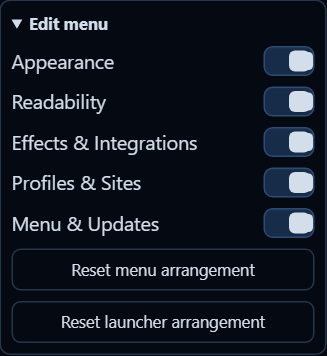
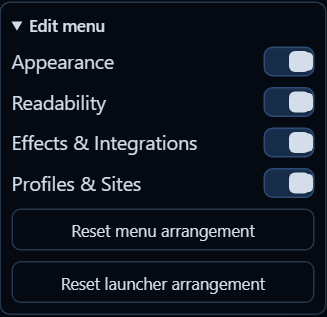
Prepare exp-core 3.3.9 with current guides and menu controls

diff --git a/dist/exp-core.js b/dist/exp-core.js
@@ -1483,19 +1483,21 @@ function createProductLifecycle(shared) {
   });
 }
 
-// Shared, local-only recovery and compatibility controls.
+// Shared, local-only compatibility controls.
 const ExtraPotionsTools = (() => {
-  const clone = value => JSON.parse(JSON.stringify(value));
-  function createSettingsRecovery({read,write,validate,limit=5}) {
-    function list() { try { const values=read(); return Array.isArray(values)?values.filter(v=>v&&typeof v.id==='string'&&v.settings&&typeof v.settings==='object').slice(0,limit).map(clone):[]; } catch {return [];} }
-    function capture(settings,reason='change') {
-      const clean=validate(clone(settings)); const entries=list();
-      if(entries[0]&&JSON.stringify(entries[0].settings)===JSON.stringify(clean))return entries[0].id;
-      const entry={id:globalThis.crypto?.randomUUID?.()||`${Date.now()}-${Math.random()}`,at:Date.now(),reason:String(reason).slice(0,80),settings:clean};
-      write([entry,...entries].slice(0,limit));return entry.id;
-    }
-    function restore(id){const entry=list().find(v=>v.id===id);if(!entry)throw Error('This backup is no longer available.');return validate(clone(entry.settings));}
-    return Object.freeze({list,capture,restore});
+  function placeDonationPanel(panel, trigger){
+    trigger.closest('.menu-head,.ward-header,header')?.after(panel);
+    panel.style.cssText='position:static!important;width:100%!important;max-width:100%!important;margin:7px 0;box-shadow:none';
+  }
+  function createBitcoinDonation(){
+    const address='bc1qg4xq63mwu63qc5dnqugk3qtxvulv5p3frjayna8ey8tu8ey4wpxsg92hv3';
+    const details=document.createElement('details');details.className='exp-bitcoin-donation';details.style.cssText='margin-top:7px;min-width:0';
+    const summary=document.createElement('summary');summary.textContent='₿ Bitcoin';summary.style.cssText='cursor:pointer;font-weight:700;padding:6px;border:1px solid var(--theme-line);border-radius:7px';
+    const code=document.createElement('code');code.textContent=address;code.setAttribute('aria-label','Bitcoin donation address');code.style.cssText='display:block;overflow-wrap:anywhere;word-break:break-all;user-select:all;margin:7px 0;font-size:11px;line-height:1.4';
+    const status=document.createElement('p');status.setAttribute('role','status');status.style.cssText='margin:5px 0 0;font-size:10px';
+    const copy=button('Copy Bitcoin address',async()=>{try{await navigator.clipboard.writeText(address);status.textContent='Bitcoin address copied.';}catch{status.textContent='Select and copy the address above.';}});copy.style.cssText='width:100%;min-width:0;white-space:normal;border-radius:7px';
+    const wallet=document.createElement('a');wallet.href='bitcoin:'+address;wallet.textContent='Open Bitcoin wallet';
+    details.append(summary,code,copy,wallet,status);return details;
   }
   function compatibilitySnapshot(){
     const rows=[];const warnings=[];const versions=new Set();
@@ -1514,8 +1516,7 @@ const ExtraPotionsTools = (() => {
   const button=(label,fn)=>{const b=document.createElement('button');b.type='button';b.className='life-btn action';b.textContent=label;b.addEventListener('click',fn);return b;};
   function card(title){const d=document.createElement('details');d.className='exp-tools-card';d.style.cssText='border:1px solid var(--theme-line,var(--line,#777));border-radius:7px;padding:7px;margin-top:8px';const s=document.createElement('summary');s.textContent=title;d.append(s);return d;}
   function createCompatibilityControls(){const d=card('Product compatibility'),out=document.createElement('div');out.setAttribute('aria-live','polite');function refresh(){out.replaceChildren();const value=compatibilitySnapshot();for(const p of value.products){const line=document.createElement('p');line.textContent=`${p.id.toUpperCase()} ${p.versions.join(', ')} · ${p.core?'core '+p.core:'native product UI'}`;out.append(line);}const status=document.createElement('p');status.textContent=value.warnings.join(' ')||'No mixed core versions or duplicate instances detected on this page.';out.append(status);const note=document.createElement('small');note.textContent='Only products running on this page are visible. This is not an online update check.';out.append(note);}d.addEventListener('toggle',()=>{if(d.open)refresh();});d.append(out,button('Refresh compatibility',refresh));return d;}
-  function createRecoveryControls({list,capture,restore,notify=()=>{}}){const d=card('Settings backups'),select=document.createElement('select'),status=document.createElement('p');select.setAttribute('aria-label','Settings backup');status.setAttribute('role','status');function refresh(){select.replaceChildren();for(const e of list()){const o=document.createElement('option');o.value=e.id;o.textContent=`${new Date(e.at).toLocaleString()} · ${e.reason}`;select.append(o);}select.disabled=!select.options.length;rollback.disabled=select.disabled;}const backup=button('Back up settings',()=>{try{capture();refresh();status.textContent='Settings backed up locally.';}catch(e){status.textContent=e.message;}});const rollback=button('Restore selected backup',()=>{try{if(!select.value)return;restore(select.value);refresh();status.textContent='Settings restored. The previous state was also backed up.';notify(status.textContent);}catch(e){status.textContent=e.message;}});d.addEventListener('toggle',()=>{if(d.open)refresh();});d.append(select,backup,rollback,status);refresh();return d;}
-  return Object.freeze({createSettingsRecovery,compatibilitySnapshot,createCompatibilityControls,createRecoveryControls});
+  return Object.freeze({placeDonationPanel,createBitcoinDonation,compatibilitySnapshot,createCompatibilityControls});
 })();
 
 // Section arrangement shared at build time by ExtraPotions menus.
@@ -1570,7 +1571,7 @@ const ExpMenuArrangement = (() => {
       });
       onChange();
     }
-    function update() { if (!recovery.body.contains(editor)) recovery.body.append(editor); }
+    function update() { const target = recovery.body.querySelector('[data-exp-system-tools]') || recovery.body; if (editor.parentElement !== target) target.append(editor); }
     for (const entry of entries) {
       entry.section.dataset.expArrangeSection = entry.key;
       const grip = document.createElement('button'); grip.type = 'button'; grip.className = 'exp-section-grip'; grip.textContent = '⠿';
@@ -1631,7 +1632,7 @@ const ExpMenuArrangement = (() => {
 // Product engines own their settings, content, and actions. Core owns shared UI.
 const ExtraPotionsCore = (() => {
   'use strict';
-  const version = '3.3.8';
+  const version = '3.3.9';
   const sourceVersion = '3.3.5';
   const SUPPORT_URL = 'https://ko-fi.com/expdare';
   const protocol = 'exp-core-coordination-v1';
@@ -1651,6 +1652,21 @@ const ExtraPotionsCore = (() => {
   function applyTextGradient(element, backgroundImage) {
     const properties = {'background-color':'transparent','background-image':backgroundImage,'background-clip':'text','-webkit-background-clip':'text','background-size':'auto','background-position':'0% 0%','background-repeat':'repeat'};
     for (const [property,value] of Object.entries(properties)) element.style.setProperty(property,value,'important');
+  }
+  function replaceMenuContent(container, content) {
+    const summary = node => node.querySelector(':scope > summary')?.textContent.trim();
+    const expanded = new Set([...container.querySelectorAll('details[open]')].map(summary));
+    container.replaceChildren(content);
+    for (const node of container.querySelectorAll('details')) if (expanded.has(summary(node))) node.open = true;
+  }
+  function createDisclosure(label, ...contents) {
+    const details = document.createElement('details'); details.className = 'exp-system-card';
+    const summary = document.createElement('summary'); summary.textContent = label;
+    details.append(summary, ...contents); return details;
+  }
+  function createSystemGrid(...contents) {
+    const grid = document.createElement('div'); grid.dataset.expSystemTools = '1';
+    grid.append(...contents); return grid;
   }
   function menuWidthForMode(mode = 'compact', fullWidth = 312) {
     if (mode === 'narrow') return 220;
@@ -1673,6 +1689,14 @@ const ExtraPotionsCore = (() => {
     [data-exp-part="dock"] :is(input,select,textarea){min-width:0;max-width:100%}
     .update-notice,.changelog{max-height:calc(100vh - 24px)!important;overflow-x:hidden!important;overflow-y:auto!important;overscroll-behavior:contain;overflow-wrap:anywhere}
 
+    [data-exp-system-tools]{display:grid!important;grid-template-columns:repeat(2,minmax(0,1fr))!important;gap:6px!important;align-items:stretch;grid-column:1/-1!important;min-width:0}
+    [data-exp-system-tools]>details{box-sizing:border-box;min-width:0;margin:0!important;padding:7px!important;border:1px solid var(--theme-line);border-radius:7px;grid-column:auto!important;overflow-wrap:anywhere}
+    [data-exp-system-tools]>details[open]{grid-column:1/-1!important}
+    [data-exp-system-tools]>details>summary{cursor:pointer;font-weight:600}
+    .exp-system-card>summary{cursor:pointer}
+    .exp-system-card>summary+*{margin-top:6px}
+    [data-exp-part="dock"] .row:has(>select[aria-label="Menu width"]){display:grid!important;grid-template-columns:minmax(0,1fr) minmax(0,104px)!important;align-items:center;gap:8px!important}
+    [data-exp-part="dock"] .row>select[aria-label="Menu width"]{box-sizing:border-box;width:100%!important;max-width:104px!important;min-width:0!important;margin:0!important}
     :host{color-scheme:dark}
     [data-exp-part="launcher"]{box-sizing:border-box!important;width:48px!important;min-width:48px!important;max-width:48px!important;height:48px!important;min-height:48px!important;max-height:48px!important}
     [data-exp-part="launcher"] .launcher-icon{width:40px!important;height:40px!important}
@@ -2459,15 +2483,16 @@ const ExtraPotionsCore = (() => {
     anchor.target = '_blank';
     anchor.rel = 'noopener noreferrer';
     anchor.textContent = 'Open Ko-fi';
-    popover.append(strong, copy, anchor);
+    popover.append(strong, copy, anchor, ExtraPotionsTools.createBitcoinDonation());
     wrapper.append(button, popover);
     const toggle = event => {
       event?.stopPropagation?.();
+      ExtraPotionsTools.placeDonationPanel(popover,button);
       popover.hidden = !popover.hidden;
       button.setAttribute('aria-expanded', String(!popover.hidden));
     };
     const outside = event => {
-      if (popover.hidden || event.composedPath().includes(wrapper)) return;
+      if (popover.hidden || event.composedPath().includes(wrapper) || event.composedPath().includes(popover)) return;
       popover.hidden = true;
       button.setAttribute('aria-expanded', 'false');
     };
@@ -2478,7 +2503,7 @@ const ExtraPotionsCore = (() => {
       button,
       popover,
       hide() { popover.hidden = true; button.setAttribute('aria-expanded', 'false'); },
-      destroy() { button.removeEventListener('click', toggle); document.removeEventListener('pointerdown', outside, true); wrapper.remove(); },
+      destroy() { button.removeEventListener('click', toggle); document.removeEventListener('pointerdown', outside, true); popover.remove(); wrapper.remove(); },
     });
   }
 
@@ -2566,7 +2591,7 @@ const ExtraPotionsCore = (() => {
     const header=document.createElement('header');header.className='menu-head';const brand=document.createElement('div');brand.className='header-brand';const image=document.createElement('img');image.src=artwork;image.alt='';const copy=document.createElement('div');const titleRow=document.createElement('div');const title=document.createElement('strong');title.textContent=name;const v=document.createElement('button');v.type='button';v.className='version';v.textContent='v'+productVersion;titleRow.append(title,v);const sub=document.createElement('small');sub.textContent=subtitle;copy.append(titleRow,sub);brand.append(image,copy);const close=document.createElement('button');close.className='close';close.textContent='×';close.setAttribute('aria-label','Close '+name);const actions=document.createElement('div');actions.className='header-actions';const support=createSupportControl({url:supportUrl,label:'Support '+name});if(support)actions.append(support.element);actions.append(close);header.append(brand,actions);const divider=document.createElement('div');divider.className='header-divider';const nav=document.createElement('nav');
     let isOpen=false, activeId='';let chrome;
     const sectionMap=new Map();
-    function renderSection(section,body){const content=section.render({core:api,onSettings});body.replaceChildren(content);chrome?.update();}
+    function renderSection(section,body){const content=section.render({core:api,onSettings});replaceMenuContent(body,content);chrome?.update();}
     function renderActive(){if(!activeId)return false;const entry=sectionMap.get(activeId);if(!entry||entry.body.hidden)return false;renderSection(entry.section,entry.body);return true;}
     function setOpen(value,focus=true){isOpen=Boolean(value);panel.hidden=!isOpen;launcher.setAttribute('aria-expanded',String(isOpen));if(isOpen){activeId='';nav.querySelectorAll('.route-body').forEach(n=>n.hidden=true);nav.querySelectorAll('button[data-section]').forEach(n=>n.setAttribute('aria-expanded','false'));}chrome.state(isOpen);if(focus)(isOpen?focusMenuSurface(panel):launcher.focus());}
     for(const section of sections){const group=document.createElement('section');group.className='tool-panel';const button=document.createElement('button');button.type='button';button.textContent=section.label;button.dataset.section=section.id;const body=document.createElement('div');body.className='route-body';body.hidden=true;sectionMap.set(section.id,{section,body,button});button.addEventListener('click',()=>{const opening=body.hidden;nav.querySelectorAll('.route-body').forEach(n=>n.hidden=true);nav.querySelectorAll('button[data-section]').forEach(n=>{n.classList.toggle('last-opened',n===button);n.setAttribute('aria-expanded',String(opening&&n===button));});body.hidden=!opening;activeId=opening?section.id:'';if(opening)renderSection(section,body);chrome.update();});group.append(button,body);nav.append(group);}
@@ -2581,6 +2606,6 @@ const ExtraPotionsCore = (() => {
   if(document.documentElement)startGrid();else addEventListener('DOMContentLoaded',startGrid,{once:true});
   document.addEventListener('exp-core:coordination',scheduleGrid);
   addEventListener('resize',scheduleGrid,{passive:true});
-  const api = Object.freeze({...ExtraPotionsTools,version,sourceVersion,protocol,gridProtocol,reference:DropperReference,css:canonicalCss,themes,create,createProduct,createSupportControl,createProductNotice,createLifecycle:()=>createProductLifecycle(api),registerLauncher,layout:layoutGrid,menuWidthForMode,cloneSettings,applyTextGradient,injectStyle,applyTheme,applyMatteToggleChrome,applyTwoColumnSettingsGrid,applyContentDrivenMenuLayout,createThemeSwatches,createFloatingNotice,createMenuNotice,createReleaseUpdateChecker,registerFloatingNotice,layoutFloatingNotices,claimNotice,consumeVersionChange,focusMenuSurface,registerDiagnosticsProduct:ExtraPotionsDiagnostics.registerProduct,productCompatibility:ExtraPotionsDiagnostics.compatibility,createDiagnosticsReport,downloadDiagnostics,createDiagnosticsControls,compareVersions:DropperReference.compareVersions});
+  const api = Object.freeze({...ExtraPotionsTools,version,sourceVersion,protocol,gridProtocol,reference:DropperReference,css:canonicalCss,themes,create,createProduct,createSupportControl,createProductNotice,createLifecycle:()=>createProductLifecycle(api),registerLauncher,layout:layoutGrid,replaceMenuContent,createDisclosure,createSystemGrid,menuWidthForMode,cloneSettings,applyTextGradient,injectStyle,applyTheme,applyMatteToggleChrome,applyTwoColumnSettingsGrid,applyContentDrivenMenuLayout,createThemeSwatches,createFloatingNotice,createMenuNotice,createReleaseUpdateChecker,registerFloatingNotice,layoutFloatingNotices,claimNotice,consumeVersionChange,focusMenuSurface,registerDiagnosticsProduct:ExtraPotionsDiagnostics.registerProduct,productCompatibility:ExtraPotionsDiagnostics.compatibility,createDiagnosticsReport,downloadDiagnostics,createDiagnosticsControls,compareVersions:DropperReference.compareVersions});
   return api;
 })();

diff --git a/src/runtime.js b/src/runtime.js
@@ -2,7 +2,7 @@
 // Product engines own their settings, content, and actions. Core owns shared UI.
 const ExtraPotionsCore = (() => {
   'use strict';
-  const version = '3.3.8';
+  const version = '3.3.9';
   const sourceVersion = '3.3.5';
   const SUPPORT_URL = 'https://ko-fi.com/expdare';
   const protocol = 'exp-core-coordination-v1';
@@ -22,6 +22,21 @@ const ExtraPotionsCore = (() => {
   function applyTextGradient(element, backgroundImage) {
     const properties = {'background-color':'transparent','background-image':backgroundImage,'background-clip':'text','-webkit-background-clip':'text','background-size':'auto','background-position':'0% 0%','background-repeat':'repeat'};
     for (const [property,value] of Object.entries(properties)) element.style.setProperty(property,value,'important');
+  }
+  function replaceMenuContent(container, content) {
+    const summary = node => node.querySelector(':scope > summary')?.textContent.trim();
+    const expanded = new Set([...container.querySelectorAll('details[open]')].map(summary));
+    container.replaceChildren(content);
+    for (const node of container.querySelectorAll('details')) if (expanded.has(summary(node))) node.open = true;
+  }
+  function createDisclosure(label, ...contents) {
+    const details = document.createElement('details'); details.className = 'exp-system-card';
+    const summary = document.createElement('summary'); summary.textContent = label;
+    details.append(summary, ...contents); return details;
+  }
+  function createSystemGrid(...contents) {
+    const grid = document.createElement('div'); grid.dataset.expSystemTools = '1';
+    grid.append(...contents); return grid;
   }
   function menuWidthForMode(mode = 'compact', fullWidth = 312) {
     if (mode === 'narrow') return 220;
@@ -44,6 +59,14 @@ const ExtraPotionsCore = (() => {
     [data-exp-part="dock"] :is(input,select,textarea){min-width:0;max-width:100%}
     .update-notice,.changelog{max-height:calc(100vh - 24px)!important;overflow-x:hidden!important;overflow-y:auto!important;overscroll-behavior:contain;overflow-wrap:anywhere}
 
+    [data-exp-system-tools]{display:grid!important;grid-template-columns:repeat(2,minmax(0,1fr))!important;gap:6px!important;align-items:stretch;grid-column:1/-1!important;min-width:0}
+    [data-exp-system-tools]>details{box-sizing:border-box;min-width:0;margin:0!important;padding:7px!important;border:1px solid var(--theme-line);border-radius:7px;grid-column:auto!important;overflow-wrap:anywhere}
+    [data-exp-system-tools]>details[open]{grid-column:1/-1!important}
+    [data-exp-system-tools]>details>summary{cursor:pointer;font-weight:600}
+    .exp-system-card>summary{cursor:pointer}
+    .exp-system-card>summary+*{margin-top:6px}
+    [data-exp-part="dock"] .row:has(>select[aria-label="Menu width"]){display:grid!important;grid-template-columns:minmax(0,1fr) minmax(0,104px)!important;align-items:center;gap:8px!important}
+    [data-exp-part="dock"] .row>select[aria-label="Menu width"]{box-sizing:border-box;width:100%!important;max-width:104px!important;min-width:0!important;margin:0!important}
     :host{color-scheme:dark}
     [data-exp-part="launcher"]{box-sizing:border-box!important;width:48px!important;min-width:48px!important;max-width:48px!important;height:48px!important;min-height:48px!important;max-height:48px!important}
     [data-exp-part="launcher"] .launcher-icon{width:40px!important;height:40px!important}
@@ -830,15 +853,16 @@ const ExtraPotionsCore = (() => {
     anchor.target = '_blank';
     anchor.rel = 'noopener noreferrer';
     anchor.textContent = 'Open Ko-fi';
-    popover.append(strong, copy, anchor);
+    popover.append(strong, copy, anchor, ExtraPotionsTools.createBitcoinDonation());
     wrapper.append(button, popover);
     const toggle = event => {
       event?.stopPropagation?.();
+      ExtraPotionsTools.placeDonationPanel(popover,button);
       popover.hidden = !popover.hidden;
       button.setAttribute('aria-expanded', String(!popover.hidden));
     };
     const outside = event => {
-      if (popover.hidden || event.composedPath().includes(wrapper)) return;
+      if (popover.hidden || event.composedPath().includes(wrapper) || event.composedPath().includes(popover)) return;
       popover.hidden = true;
       button.setAttribute('aria-expanded', 'false');
     };
@@ -849,7 +873,7 @@ const ExtraPotionsCore = (() => {
       button,
       popover,
       hide() { popover.hidden = true; button.setAttribute('aria-expanded', 'false'); },
-      destroy() { button.removeEventListener('click', toggle); document.removeEventListener('pointerdown', outside, true); wrapper.remove(); },
+      destroy() { button.removeEventListener('click', toggle); document.removeEventListener('pointerdown', outside, true); popover.remove(); wrapper.remove(); },
     });
   }
 
@@ -937,7 +961,7 @@ const ExtraPotionsCore = (() => {
     const header=document.createElement('header');header.className='menu-head';const brand=document.createElement('div');brand.className='header-brand';const image=document.createElement('img');image.src=artwork;image.alt='';const copy=document.createElement('div');const titleRow=document.createElement('div');const title=document.createElement('strong');title.textContent=name;const v=document.createElement('button');v.type='button';v.className='version';v.textContent='v'+productVersion;titleRow.append(title,v);const sub=document.createElement('small');sub.textContent=subtitle;copy.append(titleRow,sub);brand.append(image,copy);const close=document.createElement('button');close.className='close';close.textContent='×';close.setAttribute('aria-label','Close '+name);const actions=document.createElement('div');actions.className='header-actions';const support=createSupportControl({url:supportUrl,label:'Support '+name});if(support)actions.append(support.element);actions.append(close);header.append(brand,actions);const divider=document.createElement('div');divider.className='header-divider';const nav=document.createElement('nav');
     let isOpen=false, activeId='';let chrome;
     const sectionMap=new Map();
-    function renderSection(section,body){const content=section.render({core:api,onSettings});body.replaceChildren(content);chrome?.update();}
+    function renderSection(section,body){const content=section.render({core:api,onSettings});replaceMenuContent(body,content);chrome?.update();}
     function renderActive(){if(!activeId)return false;const entry=sectionMap.get(activeId);if(!entry||entry.body.hidden)return false;renderSection(entry.section,entry.body);return true;}
     function setOpen(value,focus=true){isOpen=Boolean(value);panel.hidden=!isOpen;launcher.setAttribute('aria-expanded',String(isOpen));if(isOpen){activeId='';nav.querySelectorAll('.route-body').forEach(n=>n.hidden=true);nav.querySelectorAll('button[data-section]').forEach(n=>n.setAttribute('aria-expanded','false'));}chrome.state(isOpen);if(focus)(isOpen?focusMenuSurface(panel):launcher.focus());}
     for(const section of sections){const group=document.createElement('section');group.className='tool-panel';const button=document.createElement('button');button.type='button';button.textContent=section.label;button.dataset.section=section.id;const body=document.createElement('div');body.className='route-body';body.hidden=true;sectionMap.set(section.id,{section,body,button});button.addEventListener('click',()=>{const opening=body.hidden;nav.querySelectorAll('.route-body').forEach(n=>n.hidden=true);nav.querySelectorAll('button[data-section]').forEach(n=>{n.classList.toggle('last-opened',n===button);n.setAttribute('aria-expanded',String(opening&&n===button));});body.hidden=!opening;activeId=opening?section.id:'';if(opening)renderSection(section,body);chrome.update();});group.append(button,body);nav.append(group);}
@@ -952,6 +976,6 @@ const ExtraPotionsCore = (() => {
   if(document.documentElement)startGrid();else addEventListener('DOMContentLoaded',startGrid,{once:true});
   document.addEventListener('exp-core:coordination',scheduleGrid);
   addEventListener('resize',scheduleGrid,{passive:true});
-  const api = Object.freeze({...ExtraPotionsTools,version,sourceVersion,protocol,gridProtocol,reference:DropperReference,css:canonicalCss,themes,create,createProduct,createSupportControl,createProductNotice,createLifecycle:()=>createProductLifecycle(api),registerLauncher,layout:layoutGrid,menuWidthForMode,cloneSettings,applyTextGradient,injectStyle,applyTheme,applyMatteToggleChrome,applyTwoColumnSettingsGrid,applyContentDrivenMenuLayout,createThemeSwatches,createFloatingNotice,createMenuNotice,createReleaseUpdateChecker,registerFloatingNotice,layoutFloatingNotices,claimNotice,consumeVersionChange,focusMenuSurface,registerDiagnosticsProduct:ExtraPotionsDiagnostics.registerProduct,productCompatibility:ExtraPotionsDiagnostics.compatibility,createDiagnosticsReport,downloadDiagnostics,createDiagnosticsControls,compareVersions:DropperReference.compareVersions});
+  const api = Object.freeze({...ExtraPotionsTools,version,sourceVersion,protocol,gridProtocol,reference:DropperReference,css:canonicalCss,themes,create,createProduct,createSupportControl,createProductNotice,createLifecycle:()=>createProductLifecycle(api),registerLauncher,layout:layoutGrid,replaceMenuContent,createDisclosure,createSystemGrid,menuWidthForMode,cloneSettings,applyTextGradient,injectStyle,applyTheme,applyMatteToggleChrome,applyTwoColumnSettingsGrid,applyContentDrivenMenuLayout,createThemeSwatches,createFloatingNotice,createMenuNotice,createReleaseUpdateChecker,registerFloatingNotice,layoutFloatingNotices,claimNotice,consumeVersionChange,focusMenuSurface,registerDiagnosticsProduct:ExtraPotionsDiagnostics.registerProduct,productCompatibility:ExtraPotionsDiagnostics.compatibility,createDiagnosticsReport,downloadDiagnostics,createDiagnosticsControls,compareVersions:DropperReference.compareVersions});
   return api;
 })();

diff --git a/src/product-tools.js b/src/product-tools.js
@@ -1,16 +1,18 @@
-// Shared, local-only recovery and compatibility controls.
+// Shared, local-only compatibility controls.
 const ExtraPotionsTools = (() => {
-  const clone = value => JSON.parse(JSON.stringify(value));
-  function createSettingsRecovery({read,write,validate,limit=5}) {
-    function list() { try { const values=read(); return Array.isArray(values)?values.filter(v=>v&&typeof v.id==='string'&&v.settings&&typeof v.settings==='object').slice(0,limit).map(clone):[]; } catch {return [];} }
-    function capture(settings,reason='change') {
-      const clean=validate(clone(settings)); const entries=list();
-      if(entries[0]&&JSON.stringify(entries[0].settings)===JSON.stringify(clean))return entries[0].id;
-      const entry={id:globalThis.crypto?.randomUUID?.()||`${Date.now()}-${Math.random()}`,at:Date.now(),reason:String(reason).slice(0,80),settings:clean};
-      write([entry,...entries].slice(0,limit));return entry.id;
-    }
-    function restore(id){const entry=list().find(v=>v.id===id);if(!entry)throw Error('This backup is no longer available.');return validate(clone(entry.settings));}
-    return Object.freeze({list,capture,restore});
+  function placeDonationPanel(panel, trigger){
+    trigger.closest('.menu-head,.ward-header,header')?.after(panel);
+    panel.style.cssText='position:static!important;width:100%!important;max-width:100%!important;margin:7px 0;box-shadow:none';
+  }
+  function createBitcoinDonation(){
+    const address='bc1qg4xq63mwu63qc5dnqugk3qtxvulv5p3frjayna8ey8tu8ey4wpxsg92hv3';
+    const details=document.createElement('details');details.className='exp-bitcoin-donation';details.style.cssText='margin-top:7px;min-width:0';
+    const summary=document.createElement('summary');summary.textContent='₿ Bitcoin';summary.style.cssText='cursor:pointer;font-weight:700;padding:6px;border:1px solid var(--theme-line);border-radius:7px';
+    const code=document.createElement('code');code.textContent=address;code.setAttribute('aria-label','Bitcoin donation address');code.style.cssText='display:block;overflow-wrap:anywhere;word-break:break-all;user-select:all;margin:7px 0;font-size:11px;line-height:1.4';
+    const status=document.createElement('p');status.setAttribute('role','status');status.style.cssText='margin:5px 0 0;font-size:10px';
+    const copy=button('Copy Bitcoin address',async()=>{try{await navigator.clipboard.writeText(address);status.textContent='Bitcoin address copied.';}catch{status.textContent='Select and copy the address above.';}});copy.style.cssText='width:100%;min-width:0;white-space:normal;border-radius:7px';
+    const wallet=document.createElement('a');wallet.href='bitcoin:'+address;wallet.textContent='Open Bitcoin wallet';
+    details.append(summary,code,copy,wallet,status);return details;
   }
   function compatibilitySnapshot(){
     const rows=[];const warnings=[];const versions=new Set();
@@ -29,6 +31,5 @@ const ExtraPotionsTools = (() => {
   const button=(label,fn)=>{const b=document.createElement('button');b.type='button';b.className='life-btn action';b.textContent=label;b.addEventListener('click',fn);return b;};
   function card(title){const d=document.createElement('details');d.className='exp-tools-card';d.style.cssText='border:1px solid var(--theme-line,var(--line,#777));border-radius:7px;padding:7px;margin-top:8px';const s=document.createElement('summary');s.textContent=title;d.append(s);return d;}
   function createCompatibilityControls(){const d=card('Product compatibility'),out=document.createElement('div');out.setAttribute('aria-live','polite');function refresh(){out.replaceChildren();const value=compatibilitySnapshot();for(const p of value.products){const line=document.createElement('p');line.textContent=`${p.id.toUpperCase()} ${p.versions.join(', ')} · ${p.core?'core '+p.core:'native product UI'}`;out.append(line);}const status=document.createElement('p');status.textContent=value.warnings.join(' ')||'No mixed core versions or duplicate instances detected on this page.';out.append(status);const note=document.createElement('small');note.textContent='Only products running on this page are visible. This is not an online update check.';out.append(note);}d.addEventListener('toggle',()=>{if(d.open)refresh();});d.append(out,button('Refresh compatibility',refresh));return d;}
-  function createRecoveryControls({list,capture,restore,notify=()=>{}}){const d=card('Settings backups'),select=document.createElement('select'),status=document.createElement('p');select.setAttribute('aria-label','Settings backup');status.setAttribute('role','status');function refresh(){select.replaceChildren();for(const e of list()){const o=document.createElement('option');o.value=e.id;o.textContent=`${new Date(e.at).toLocaleString()} · ${e.reason}`;select.append(o);}select.disabled=!select.options.length;rollback.disabled=select.disabled;}const backup=button('Back up settings',()=>{try{capture();refresh();status.textContent='Settings backed up locally.';}catch(e){status.textContent=e.message;}});const rollback=button('Restore selected backup',()=>{try{if(!select.value)return;restore(select.value);refresh();status.textContent='Settings restored. The previous state was also backed up.';notify(status.textContent);}catch(e){status.textContent=e.message;}});d.addEventListener('toggle',()=>{if(d.open)refresh();});d.append(select,backup,rollback,status);refresh();return d;}
-  return Object.freeze({createSettingsRecovery,compatibilitySnapshot,createCompatibilityControls,createRecoveryControls});
+  return Object.freeze({placeDonationPanel,createBitcoinDonation,compatibilitySnapshot,createCompatibilityControls});
 })();

diff --git a/src/menu-arrangement.js b/src/menu-arrangement.js
@@ -50,7 +50,7 @@ const ExpMenuArrangement = (() => {
       });
       onChange();
     }
-    function update() { if (!recovery.body.contains(editor)) recovery.body.append(editor); }
+    function update() { const target = recovery.body.querySelector('[data-exp-system-tools]') || recovery.body; if (editor.parentElement !== target) target.append(editor); }
     for (const entry of entries) {
       entry.section.dataset.expArrangeSection = entry.key;
       const grip = document.createElement('button'); grip.type = 'button'; grip.className = 'exp-section-grip'; grip.textContent = '⠿';

diff --git a/CHANGELOG.md b/CHANGELOG.md
@@ -1,3 +1,10 @@
+## 3.3.9 — 2026-09-26
+
+- Compacts System menus and keeps menu width controls together on one row.
+- Groups existing menu preferences consistently while preserving saved settings.
+- Removes automatic Settings Backup and its restore controls.
+- Adds a Bitcoin donation option with address copying and wallet support.
+
 ## 3.3.8 — 2026-09-26
 
 - Adds section rearranging and visibility controls under System while preserving shared recovery tools.
